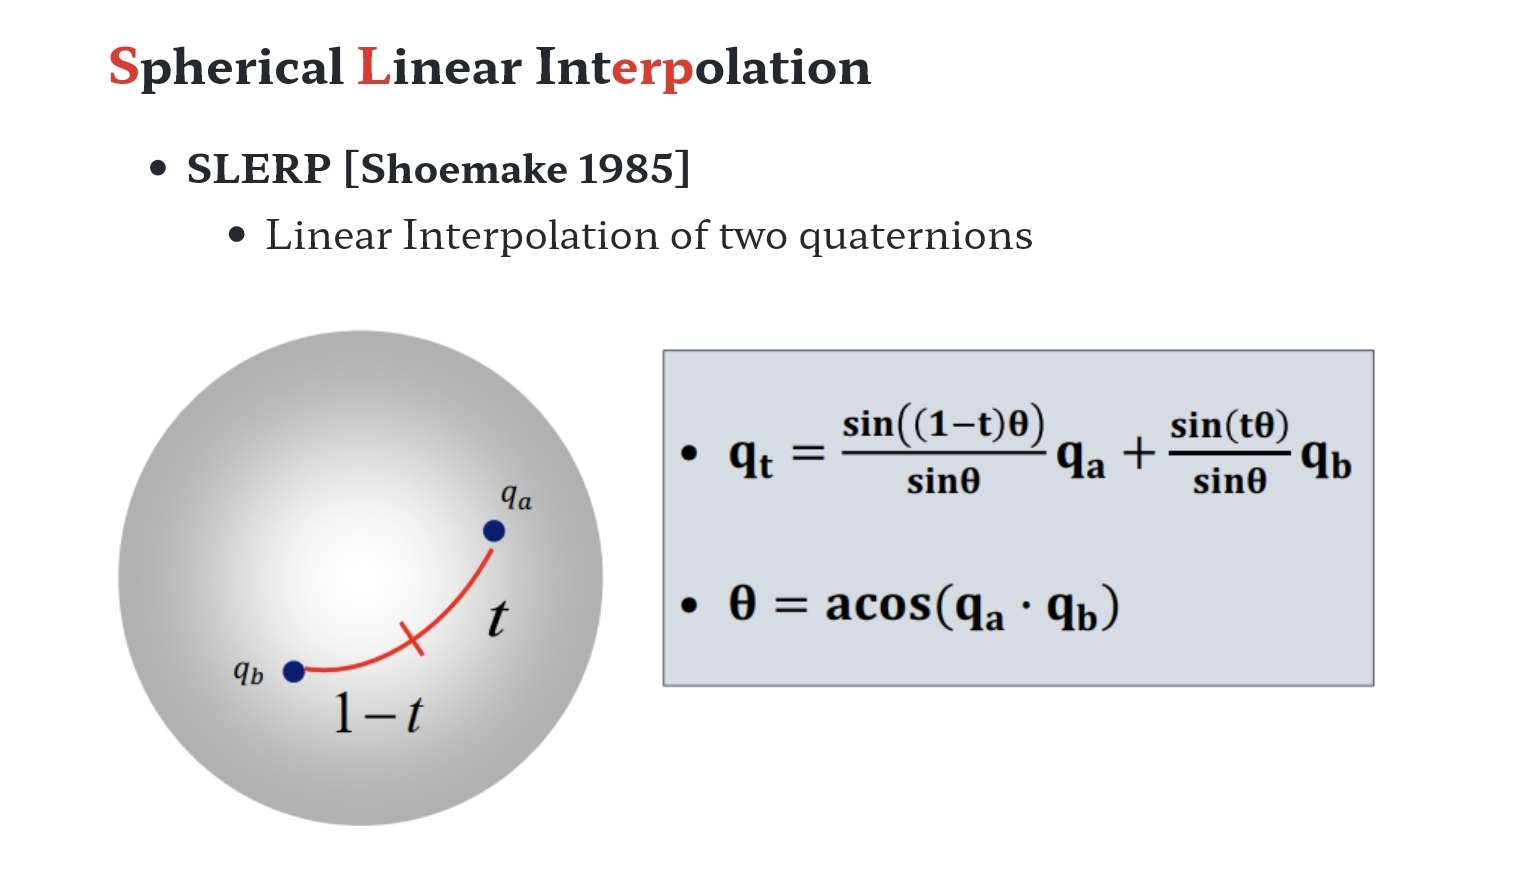
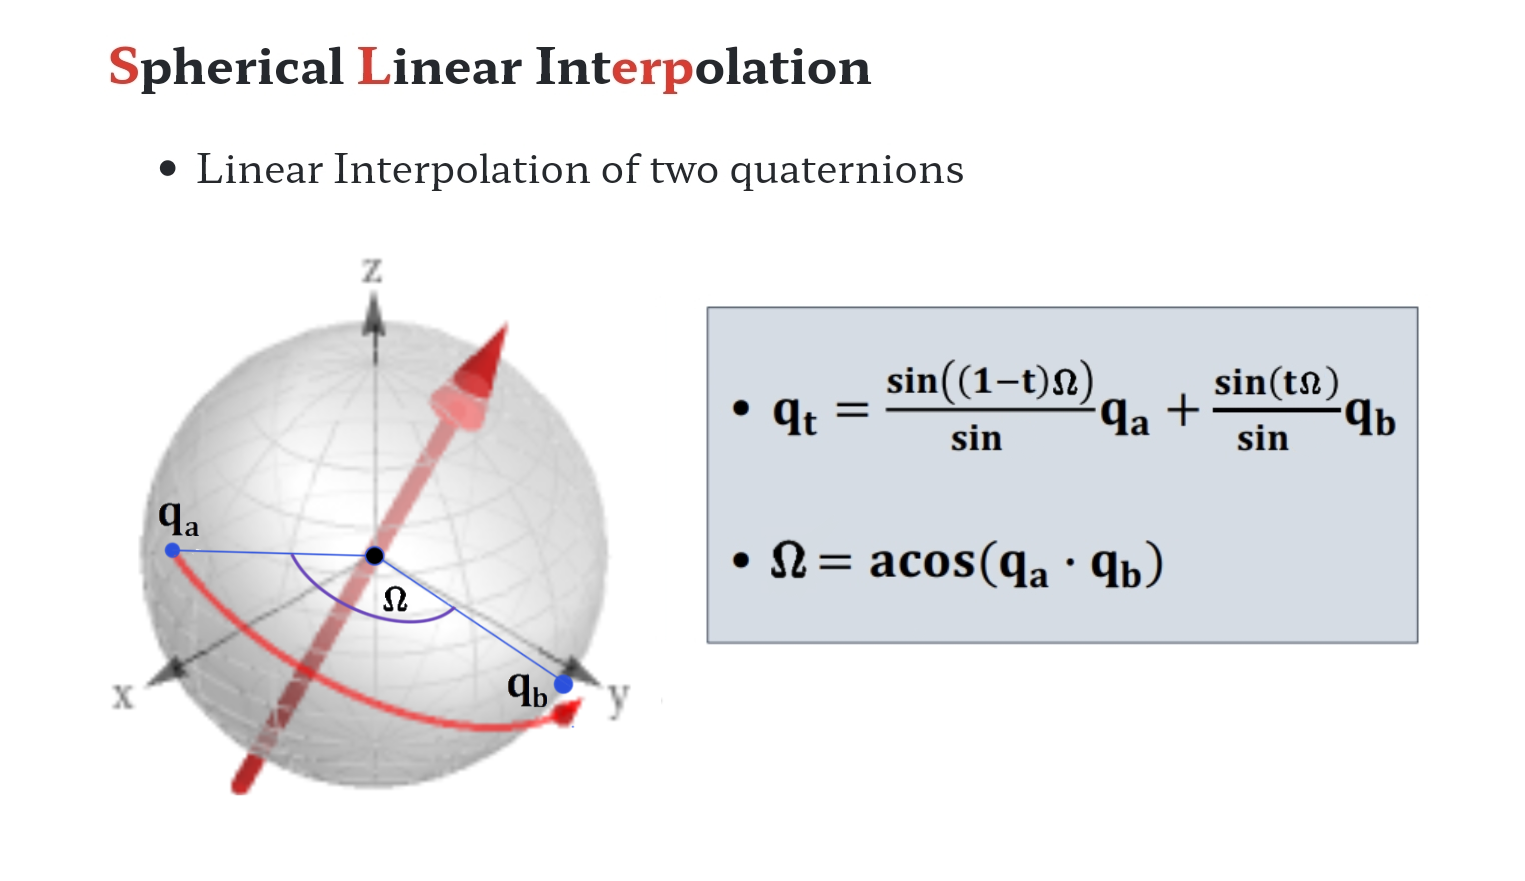
first commit

Changed region(s): [[0.0616, 0.2452, 0.9554, 0.9501], [0.0925, 0.1532, 0.6472, 0.2145]]

diff --git a/_posts/2024-04-07-Quaternions.md b/_posts/2024-04-07-Quaternions.md
@@ -349,7 +349,7 @@ $$
 球面线性插值公式
 
 $$
-q_t = \frac {sin((1-t)\theta)} {sin \theta} q_a + \frac {sin(t \theta)} {sin \theta} q_b
+q_t = \frac {sin((1-t)\Omega)} {sin \Omega} q_a + \frac {sin(t \Omega)} {sin \Omega} q_b
 $$
 
 ![Alt x](../assets/img/3d/slerp-derivation.png)
@@ -357,7 +357,7 @@ $$
 t 的数值为 0 至 1 之间的数值
 
 $$
-θ = arcCos(q_a \bullet q_b)
+\Omega = arcCos(q_a \bullet q_b)
 $$
 
 
